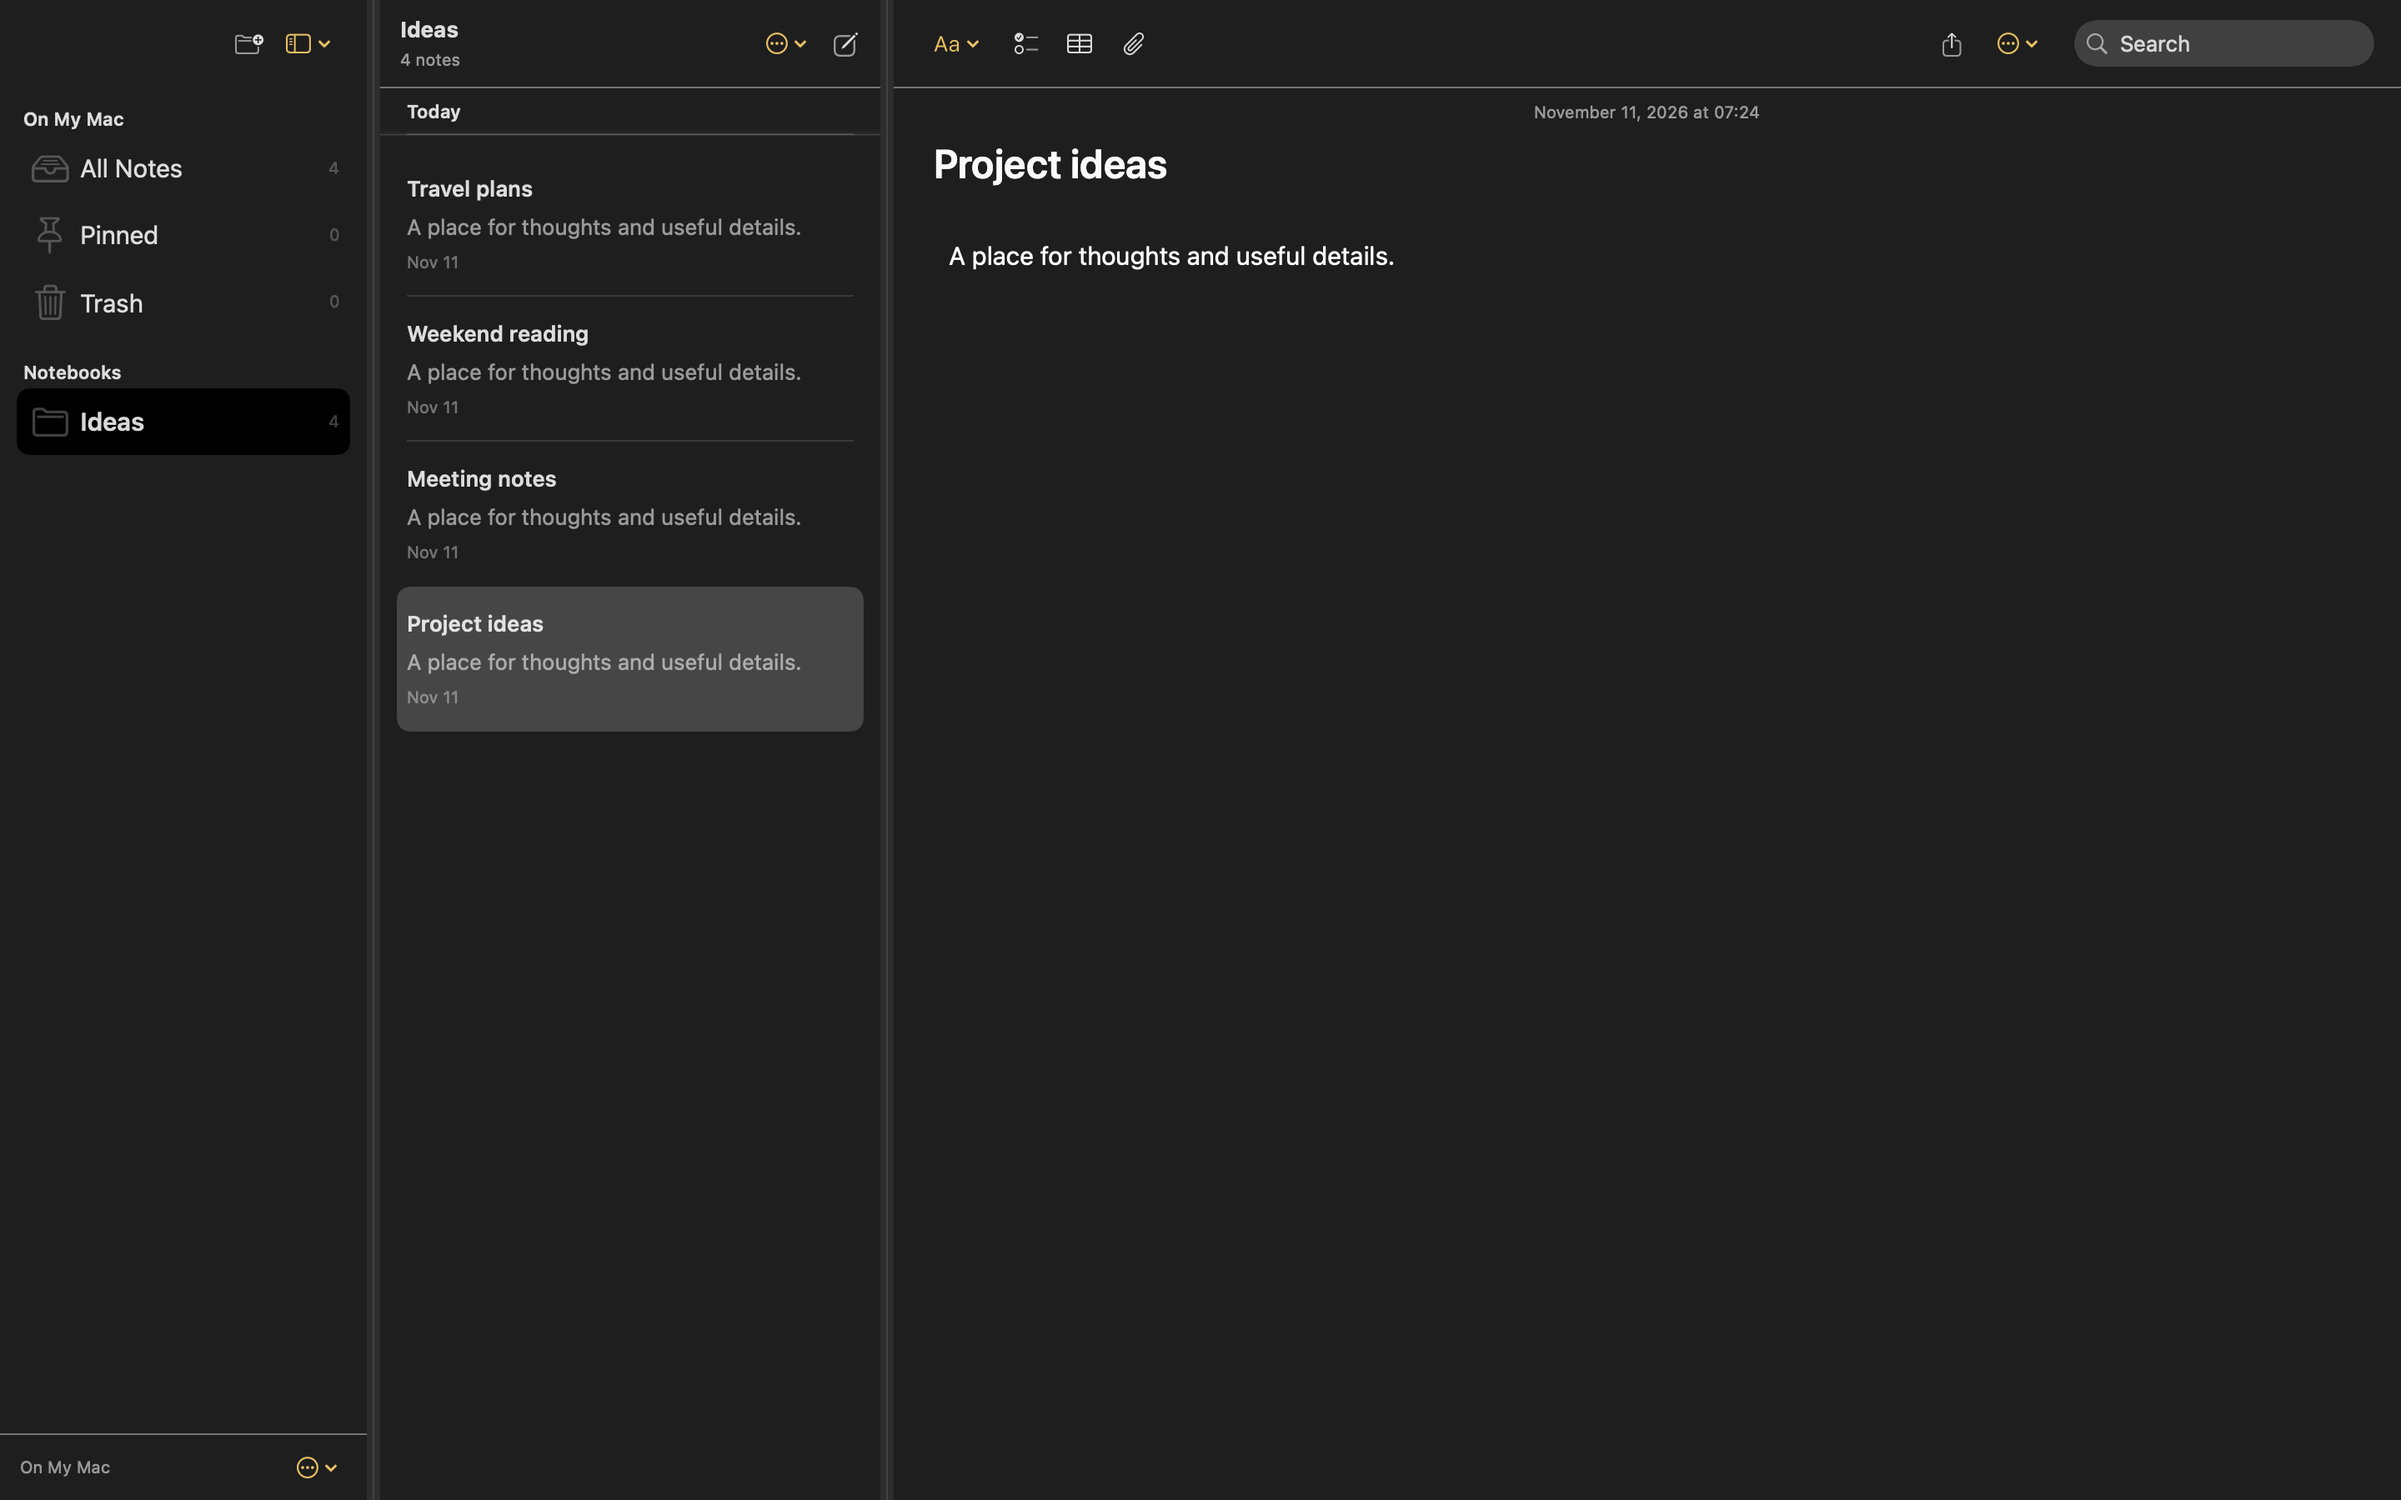
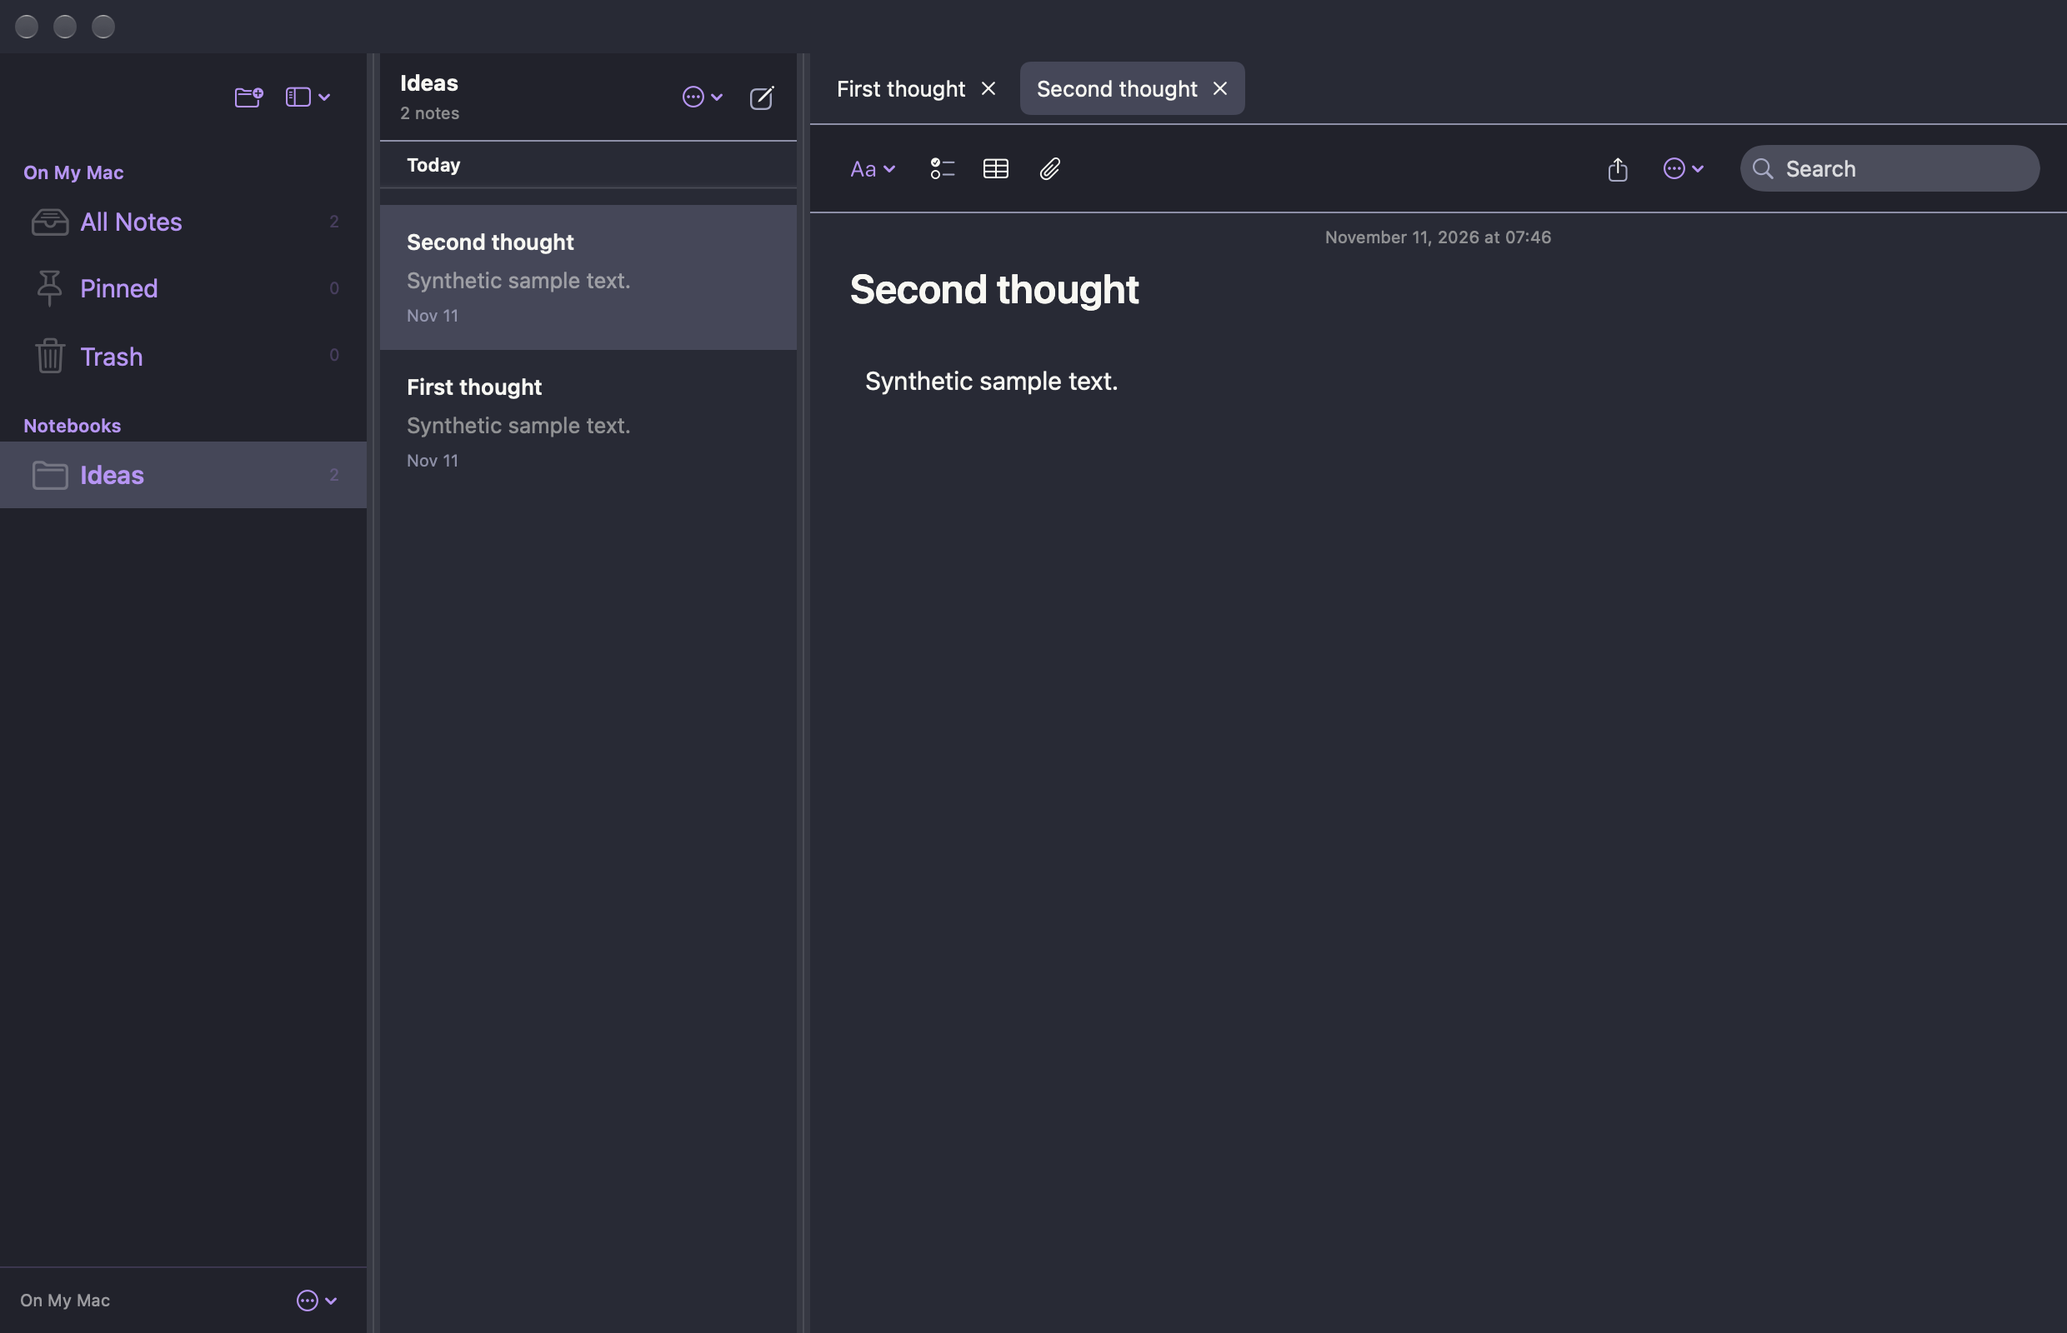
Keep workspace headers and tabs clear of the native titlebar
Respect the titlebar safe area instead of drawing interactive controls underneath it. Remove obsolete traffic-light insets, exercise the production window content in native Light and Dracula regression tests, and package Deltos 0.22.1.

diff --git a/Tests/NotesCoreTests/PresentationTests.swift b/Tests/NotesCoreTests/PresentationTests.swift
@@ -8,6 +8,56 @@ import WebKit
 @Suite(.serialized)
 @MainActor
 struct PresentationTests {
+    @Test(arguments: [FolioTheme.light, .dracula])
+    func libraryWorkspaceRespectsTheNativeTitlebar(theme: FolioTheme) async throws {
+        _ = NSApplication.shared
+        let directory = FileManager.default.temporaryDirectory.appendingPathComponent(UUID().uuidString)
+        defer { try? FileManager.default.removeItem(at: directory) }
+        let suite = "DeltosTitlebar-\(UUID().uuidString)"
+        let defaults = try #require(UserDefaults(suiteName: suite))
+        defer { defaults.removePersistentDomain(forName: suite) }
+        defaults.set(theme.rawValue, forKey: "folioTheme")
+        let notebook = Notebook(name: "Ideas")
+        let notes = ["First thought", "Second thought"].map {
+            Note(notebookID: notebook.id, title: $0, body: "Synthetic sample text.", format: .formatted)
+        }
+        let storage = LibraryStorage(url: directory.appendingPathComponent("library.json"))
+        try storage.save(Library(notebooks: [notebook], notes: notes))
+        let store = NotesStore(storage: storage, preferences: defaults)
+        store.openNote(notes[0].id)
+        store.openNoteInNewTab(notes[1].id)
+        let host = NSHostingView(rootView: LibraryWindowContent()
+            .environmentObject(store).defaultAppStorage(defaults))
+        let window = NSWindow(contentRect: NSRect(x: 0, y: 0, width: 1240, height: 800),
+                              styleMask: [.titled, .closable, .resizable, .fullSizeContentView],
+                              backing: .buffered, defer: false)
+        window.titleVisibility = .hidden
+        window.titlebarAppearsTransparent = true
+        window.contentView = host
+        defer { window.contentView = nil }
+        try await Task.sleep(for: .milliseconds(200))
+        host.layoutSubtreeIfNeeded()
+        func descendants(_ view: NSView) -> [NSView] {
+            [view] + view.subviews.flatMap(descendants)
+        }
+        let probes = descendants(host).compactMap { $0 as? ThemeWindowStyle.Probe }
+        let workspace = try #require(probes.max { $0.bounds.height < $1.bounds.height })
+        let rect = workspace.convert(workspace.bounds, to: nil)
+        #expect(window.contentLayoutRect.maxY < host.bounds.maxY)
+        #expect(rect.maxY <= window.contentLayoutRect.maxY,
+                "The workspace headers and tabs must start below the native titlebar.")
+        #expect(rect.width >= 720 && rect.height >= 520)
+        #expect(store.workspace.tabs.count == 2)
+        #expect(store.library.notes == notes)
+        let frame = try #require(host.superview)
+        let bitmap = try #require(frame.bitmapImageRepForCachingDisplay(in: frame.bounds))
+        frame.cacheDisplay(in: frame.bounds, to: bitmap)
+        let png = try #require(bitmap.representation(using: .png, properties: [:]))
+        let package = URL(fileURLWithPath: #filePath).deletingLastPathComponent()
+            .deletingLastPathComponent().deletingLastPathComponent()
+        try png.write(to: package.appendingPathComponent("dist/Deltos-titlebar-\(theme.rawValue.lowercased())-preview.png"))
+    }
+
     @Test func nestedNotebookSidebarRendersAlongsideScopedNotesWithoutChangingLibrary() async throws {
         _ = NSApplication.shared
         let directory = FileManager.default.temporaryDirectory.appendingPathComponent(UUID().uuidString)

diff --git a/Sources/Folio/ContentView.swift b/Sources/Folio/ContentView.swift
@@ -267,7 +267,7 @@ struct ContentView: View {
                     .menuStyle(.borderlessButton).fixedSize().accessibilityLabel("Sidebar options")
             }
             .buttonStyle(.borderless)
-            .padding(.leading, 80).padding(.trailing, 16).frame(height: 52)
+            .padding(.horizontal, 16).frame(height: 52)
 
             List(selection: $store.mainFolderScope) {
                 Section("On My Mac") {
@@ -536,7 +536,7 @@ struct ContentView: View {
             .accessibilityLabel("New note")
             .disabled(!store.isLoaded)
         }
-        .padding(.leading, showNotebooks ? 12 : 84).padding(.trailing, 12).frame(height: 52)
+        .padding(.horizontal, 12).frame(height: 52)
         .background(palette?.sidebarColor ?? Color(nsColor: .windowBackgroundColor))
         .popover(isPresented: $showingSearchHelp) { SearchSyntaxHelp().padding(20).frame(width: 440).folioAppearance() }
     }

diff --git a/Sources/Folio/NoteEditor.swift b/Sources/Folio/NoteEditor.swift
@@ -16,8 +16,6 @@ struct NoteEditor: View {
     @ViewState private var initialized = false
     @AppStorage("editorFontSize") private var fontSize = 15.0
     @AppStorage("showNoteDetails") private var showDetails = false
-    @AppStorage("showNotebookPane") private var showNotebooks = true
-    @AppStorage("showNoteListPane") private var showNotes = true
     @ViewState private var showingSearch = false
     @ThemeColors private var palette
     @AppStorage("readingFont") private var readingFont = ReadingFont.system.rawValue
@@ -259,7 +257,7 @@ struct NoteEditor: View {
                 }
             }
         .buttonStyle(.borderless)
-        .padding(.leading, showNotebooks || showNotes ? 20 : 84)
+        .padding(.leading, 20)
         .padding(.trailing, 16)
         .frame(height: 52)
         .background(palette?.sidebarColor ?? Color(nsColor: .windowBackgroundColor))

diff --git a/Sources/Folio/FolioApp.swift b/Sources/Folio/FolioApp.swift
@@ -1,6 +1,13 @@
 import AppKit
 import SwiftUI
 
+struct LibraryWindowContent: View {
+    var body: some View {
+        ContentView()
+            .frame(minWidth: 720, minHeight: 520)
+    }
+}
+
 @main
 struct FolioApp: App {
     @StateObject private var store = NotesStore()
@@ -13,10 +20,8 @@ struct FolioApp: App {
 
     var body: some Scene {
         Window("Deltos", id: "library") {
-            ContentView()
-                .ignoresSafeArea(.container, edges: .top)
+            LibraryWindowContent()
                 .environmentObject(store)
-                .frame(minWidth: 720, minHeight: 520)
                 .onAppear {
                     delegate.store = store; delegate.markdown = markdown
                     store.backupManager?.start()

diff --git a/Sources/Folio/Appearance.swift b/Sources/Folio/Appearance.swift
@@ -174,7 +174,7 @@ enum FolioPalette {
     }
 }
 
-private struct ThemeWindowStyle: NSViewRepresentable {
+struct ThemeWindowStyle: NSViewRepresentable {
     let theme: FolioTheme
     let palette: ThemePack?
 

diff --git a/docs/USER_GUIDE.md b/docs/USER_GUIDE.md
@@ -25,7 +25,7 @@ Contributions are welcome: see [CONTRIBUTING.md](../CONTRIBUTING.md) and the
 
 ## What is actually ready
 
-**0.22.0 is a development release, not a finished replacement for your library.**
+**0.22.1 is a development release, not a finished replacement for your library.**
 The Mac app is packaged as a DMG. The native iPhone/iPad reader builds as a
 device application but still requires your Apple signing and a real-device
 check before installation. Its interface is read-only by design.
@@ -39,7 +39,7 @@ Keep an independent backup and start with a small test notebook.
 ## Install on Mac
 
 Download the Apple Silicon DMG from [GitHub Releases](https://github.com/stevey-m/folio/releases).
-Open `Deltos-0.22.0-arm64.dmg`, drag **Deltos 0.22.0** to **Applications**, eject the
+Open `Deltos-0.22.1-arm64.dmg`, drag **Deltos 0.22.1** to **Applications**, eject the
 image and launch that versioned copy. An alternate ZIP contains the same app.
 The versioned filename avoids replacing an existing blocked installation;
 keep a known-working recovery app until you confirm the new app opens.
@@ -207,6 +207,7 @@ ellipsis menu or **Settings > Appearance**. Appearance also has a separate
 note-list text-size slider; editor/preview size uses Command-Plus/Minus.
 
 The main window now uses aligned compact pane headers and a quieter sidebar.
+Headers and document tabs stay below the native titlebar, including in Dracula.
 Search sits at the top right and **Command-F** focuses it, including when a
 search has no results. Additional actions remain in menus rather than permanent
 control bars. The document tab bar hides when only one tab is open; notebook,
